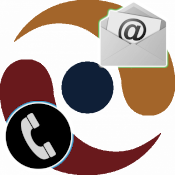
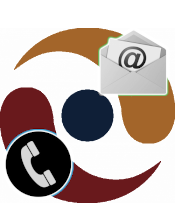
updated

diff --git a/_html/index.htm b/_html/index.htm
@@ -29,16 +29,16 @@
       <nav id="menu"> 
         <h1>Main menu</h1>
         <ul>
-          <li onmousemove="mudaFoto('../_imagens/sublogoVermelhoTag2.png')" onmouseout="mudaFoto('../_imagens/sublogoVermelhoTag2.png')"><a href="magic.html#home" target="janela">Home</a></li>
-          <li onmousemove="mudaFoto('../_imagens/cleaning.png')" onmouseout="mudaFoto('../_imagens/sublogoVermelhoTag2.png')"><a href="magic.html#cleaning" target="janela"">Cleaning</a></li>
-          <li onmousemove="mudaFoto('../_imagens/handyman.png')" onmouseout="mudaFoto('../_imagens/sublogoVermelhoTag2.png')"><a href="magic.html#handyman" target="janela">Handyman</a></li>
-          <li onmousemove="mudaFoto('../_imagens/testimonial1.png')" onmouseout="mudaFoto('../_imagens/sublogoVermelhoTag2.png')"><a href="magic.html#testimonials" target="janela">Testimonials</a></li>
-          <li onmousemove="mudaFoto('../_imagens/contato.png')" onmouseout="mudaFoto('../_imagens/sublogoVermelhoTag2.png')"><a href="magic.html#contact" target="janela">Contact Us</a></li>
-          <li class="menu-estimate" onmousemove="mudaFoto('../_imagens/estimate.png')" onmouseout="mudaFoto('../_imagens/sublogoVermelhoTag2.png')"><a href="request.htm">Request an Estimate</a></li>
+          <li onmousemove="mudaFoto('../_imagens/sublogoVermelhoTag.png')" onmouseout="mudaFoto('../_imagens/sublogoVermelhoTag.png')"><a href="magic.html#home" target="janela">Home</a></li>
+          <li onmousemove="mudaFoto('../_imagens/cleaning.png')" onmouseout="mudaFoto('../_imagens/sublogoVermelhoTag.png')"><a href="magic.html#cleaning" target="janela"">Cleaning</a></li>
+          <li onmousemove="mudaFoto('../_imagens/handyman.png')" onmouseout="mudaFoto('../_imagens/sublogoVermelhoTag.png')"><a href="magic.html#handyman" target="janela">Handyman</a></li>
+          <li onmousemove="mudaFoto('../_imagens/testimonial1.png')" onmouseout="mudaFoto('../_imagens/sublogoVermelhoTag.png')"><a href="magic.html#testimonials" target="janela">Testimonials</a></li>
+          <li onmousemove="mudaFoto('../_imagens/contato.png')" onmouseout="mudaFoto('../_imagens/sublogoVermelhoTag.png')"><a href="magic.html#contact" target="janela">Contact Us</a></li>
+          <li class="menu-estimate" onmousemove="mudaFoto('../_imagens/estimate.png')" onmouseout="mudaFoto('../_imagens/sublogoVermelhoTag.png')"><a href="request.htm">Request an Estimate</a></li>
         </ul>
     </nav>
   </nav>
-      <img id="icone" src="../_imagens/sublogoVermelhoTag2.png"/>
+      <img id="icone" src="../_imagens/sublogoVermelhoTag.png"/>
 
 </nav>
 

diff --git a/_css/index.css b/_css/index.css
@@ -153,7 +153,7 @@ nav#menu .menu-estimate a:hover {
 
 nav img#icone {
   position: relative;
-  /* width: 115px; */
+  width: 115px;
   top: -55px;
 }
 
